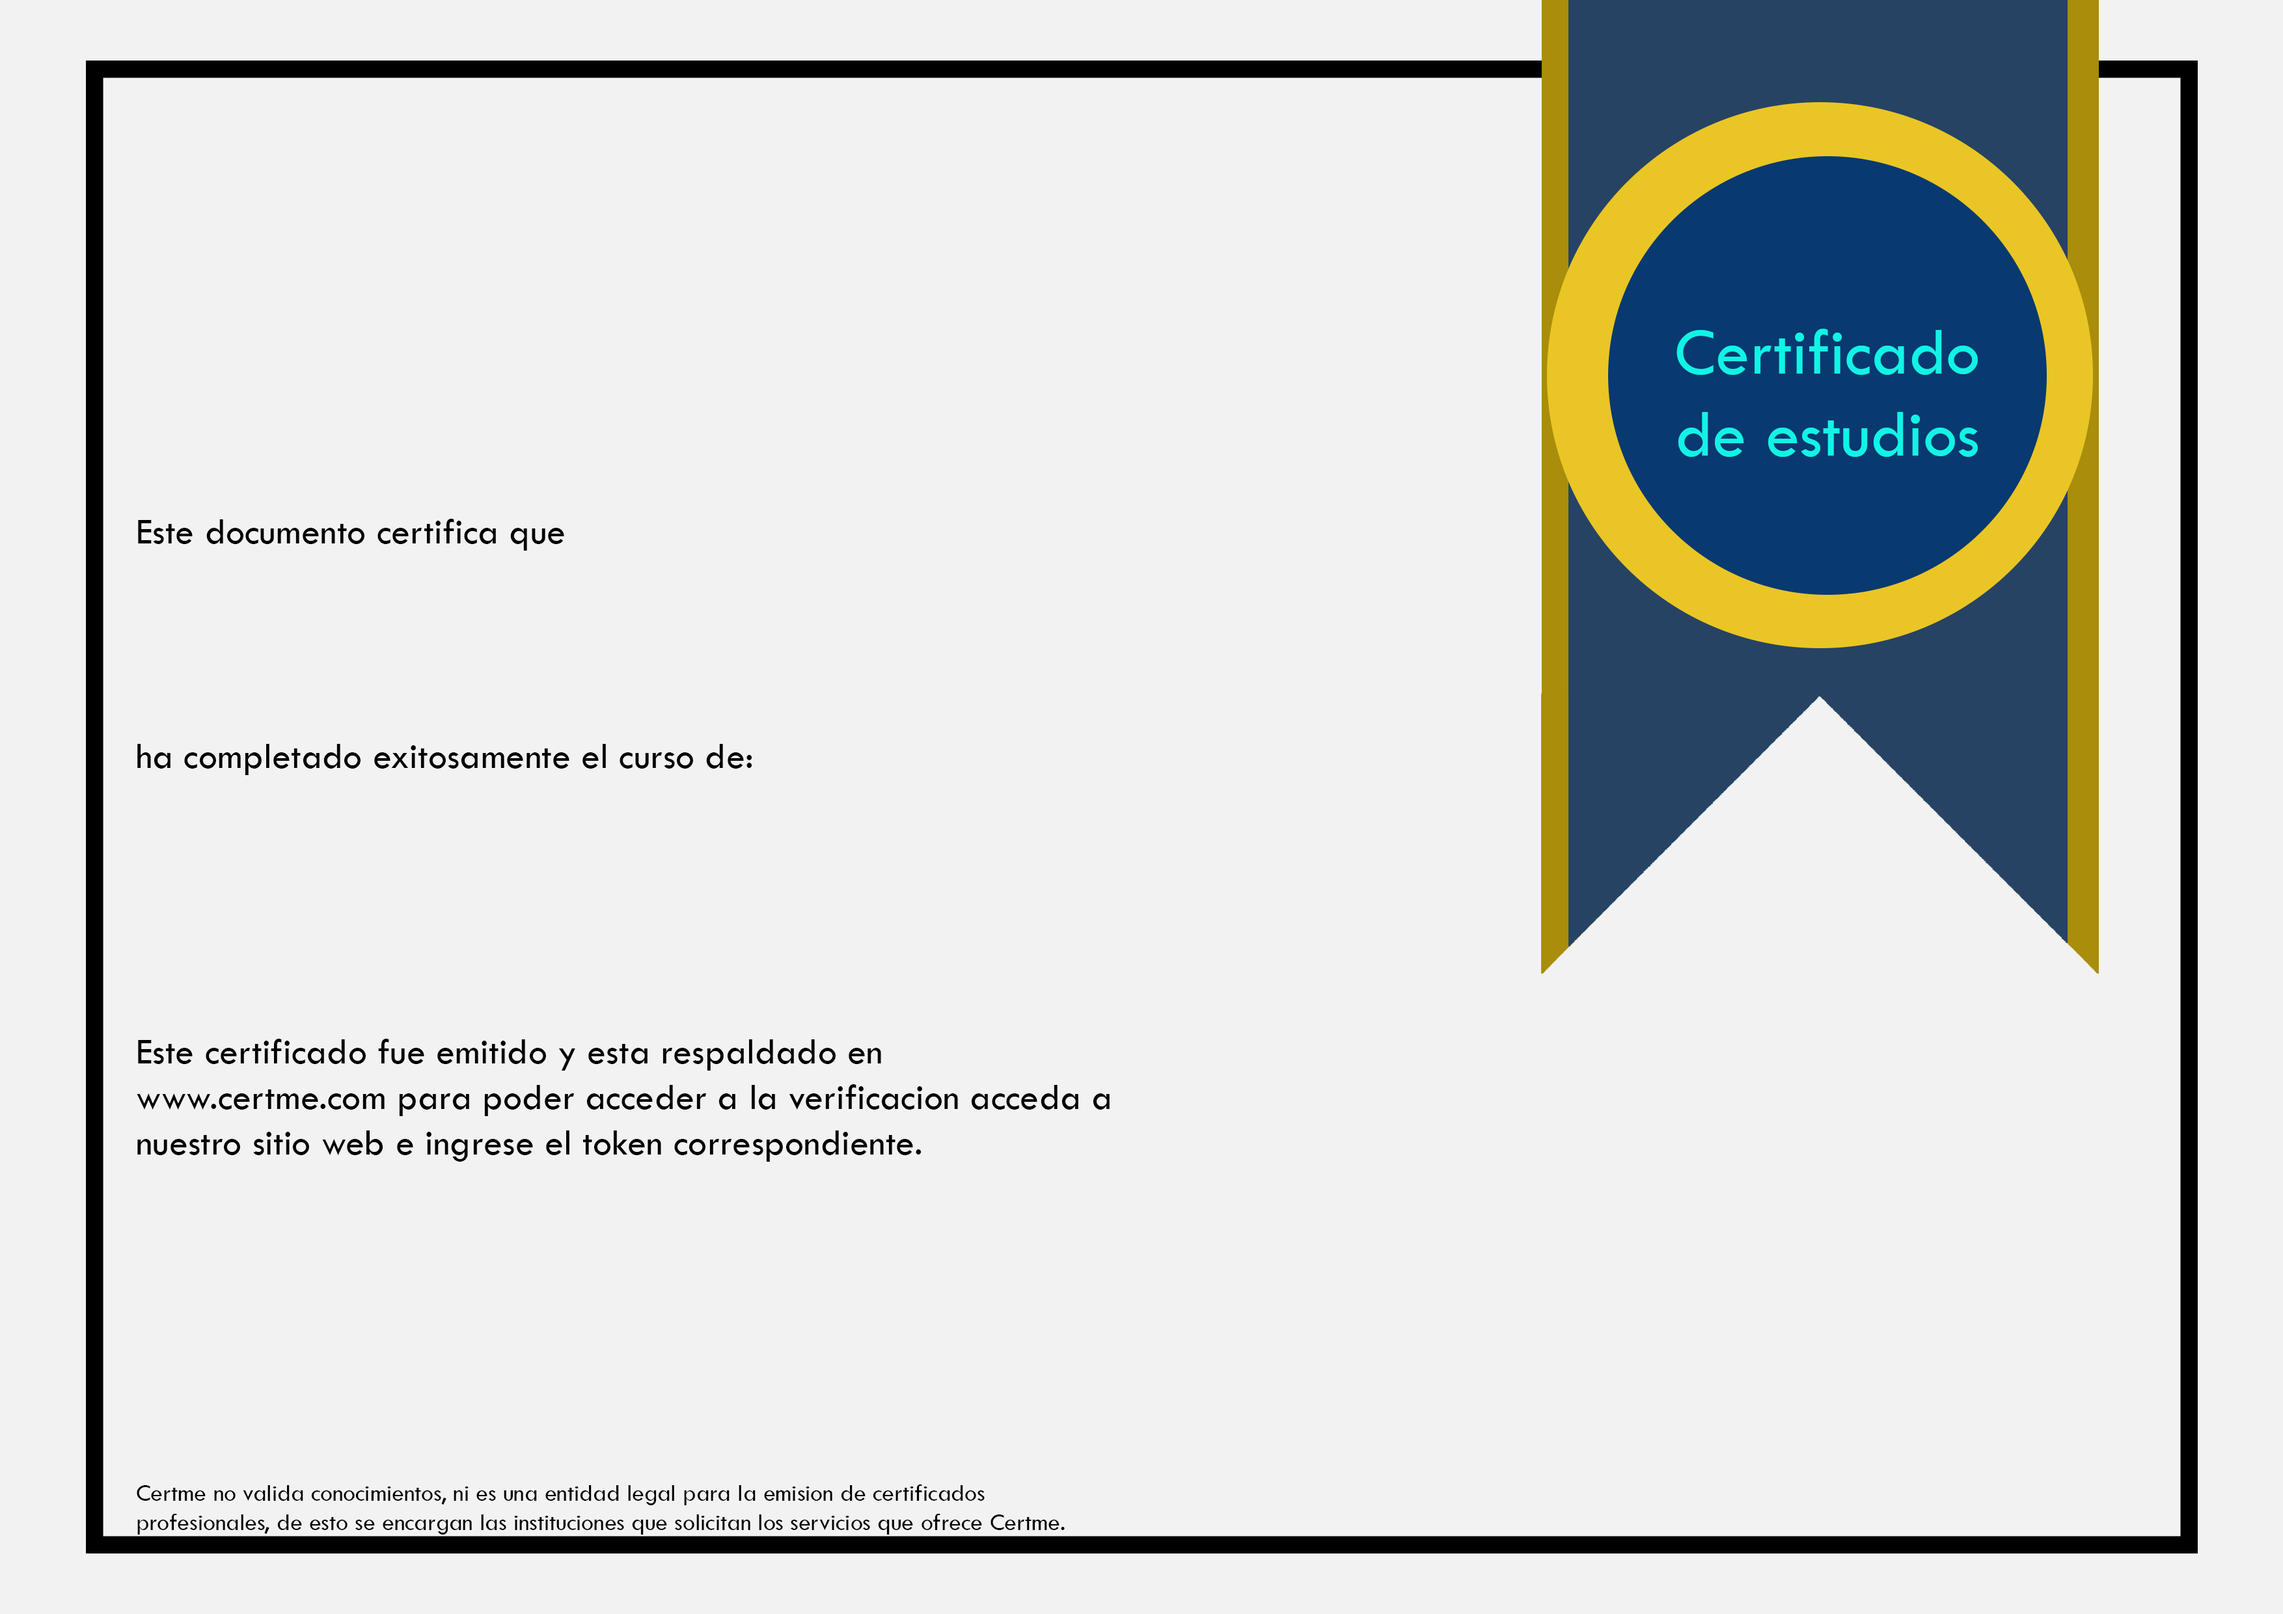
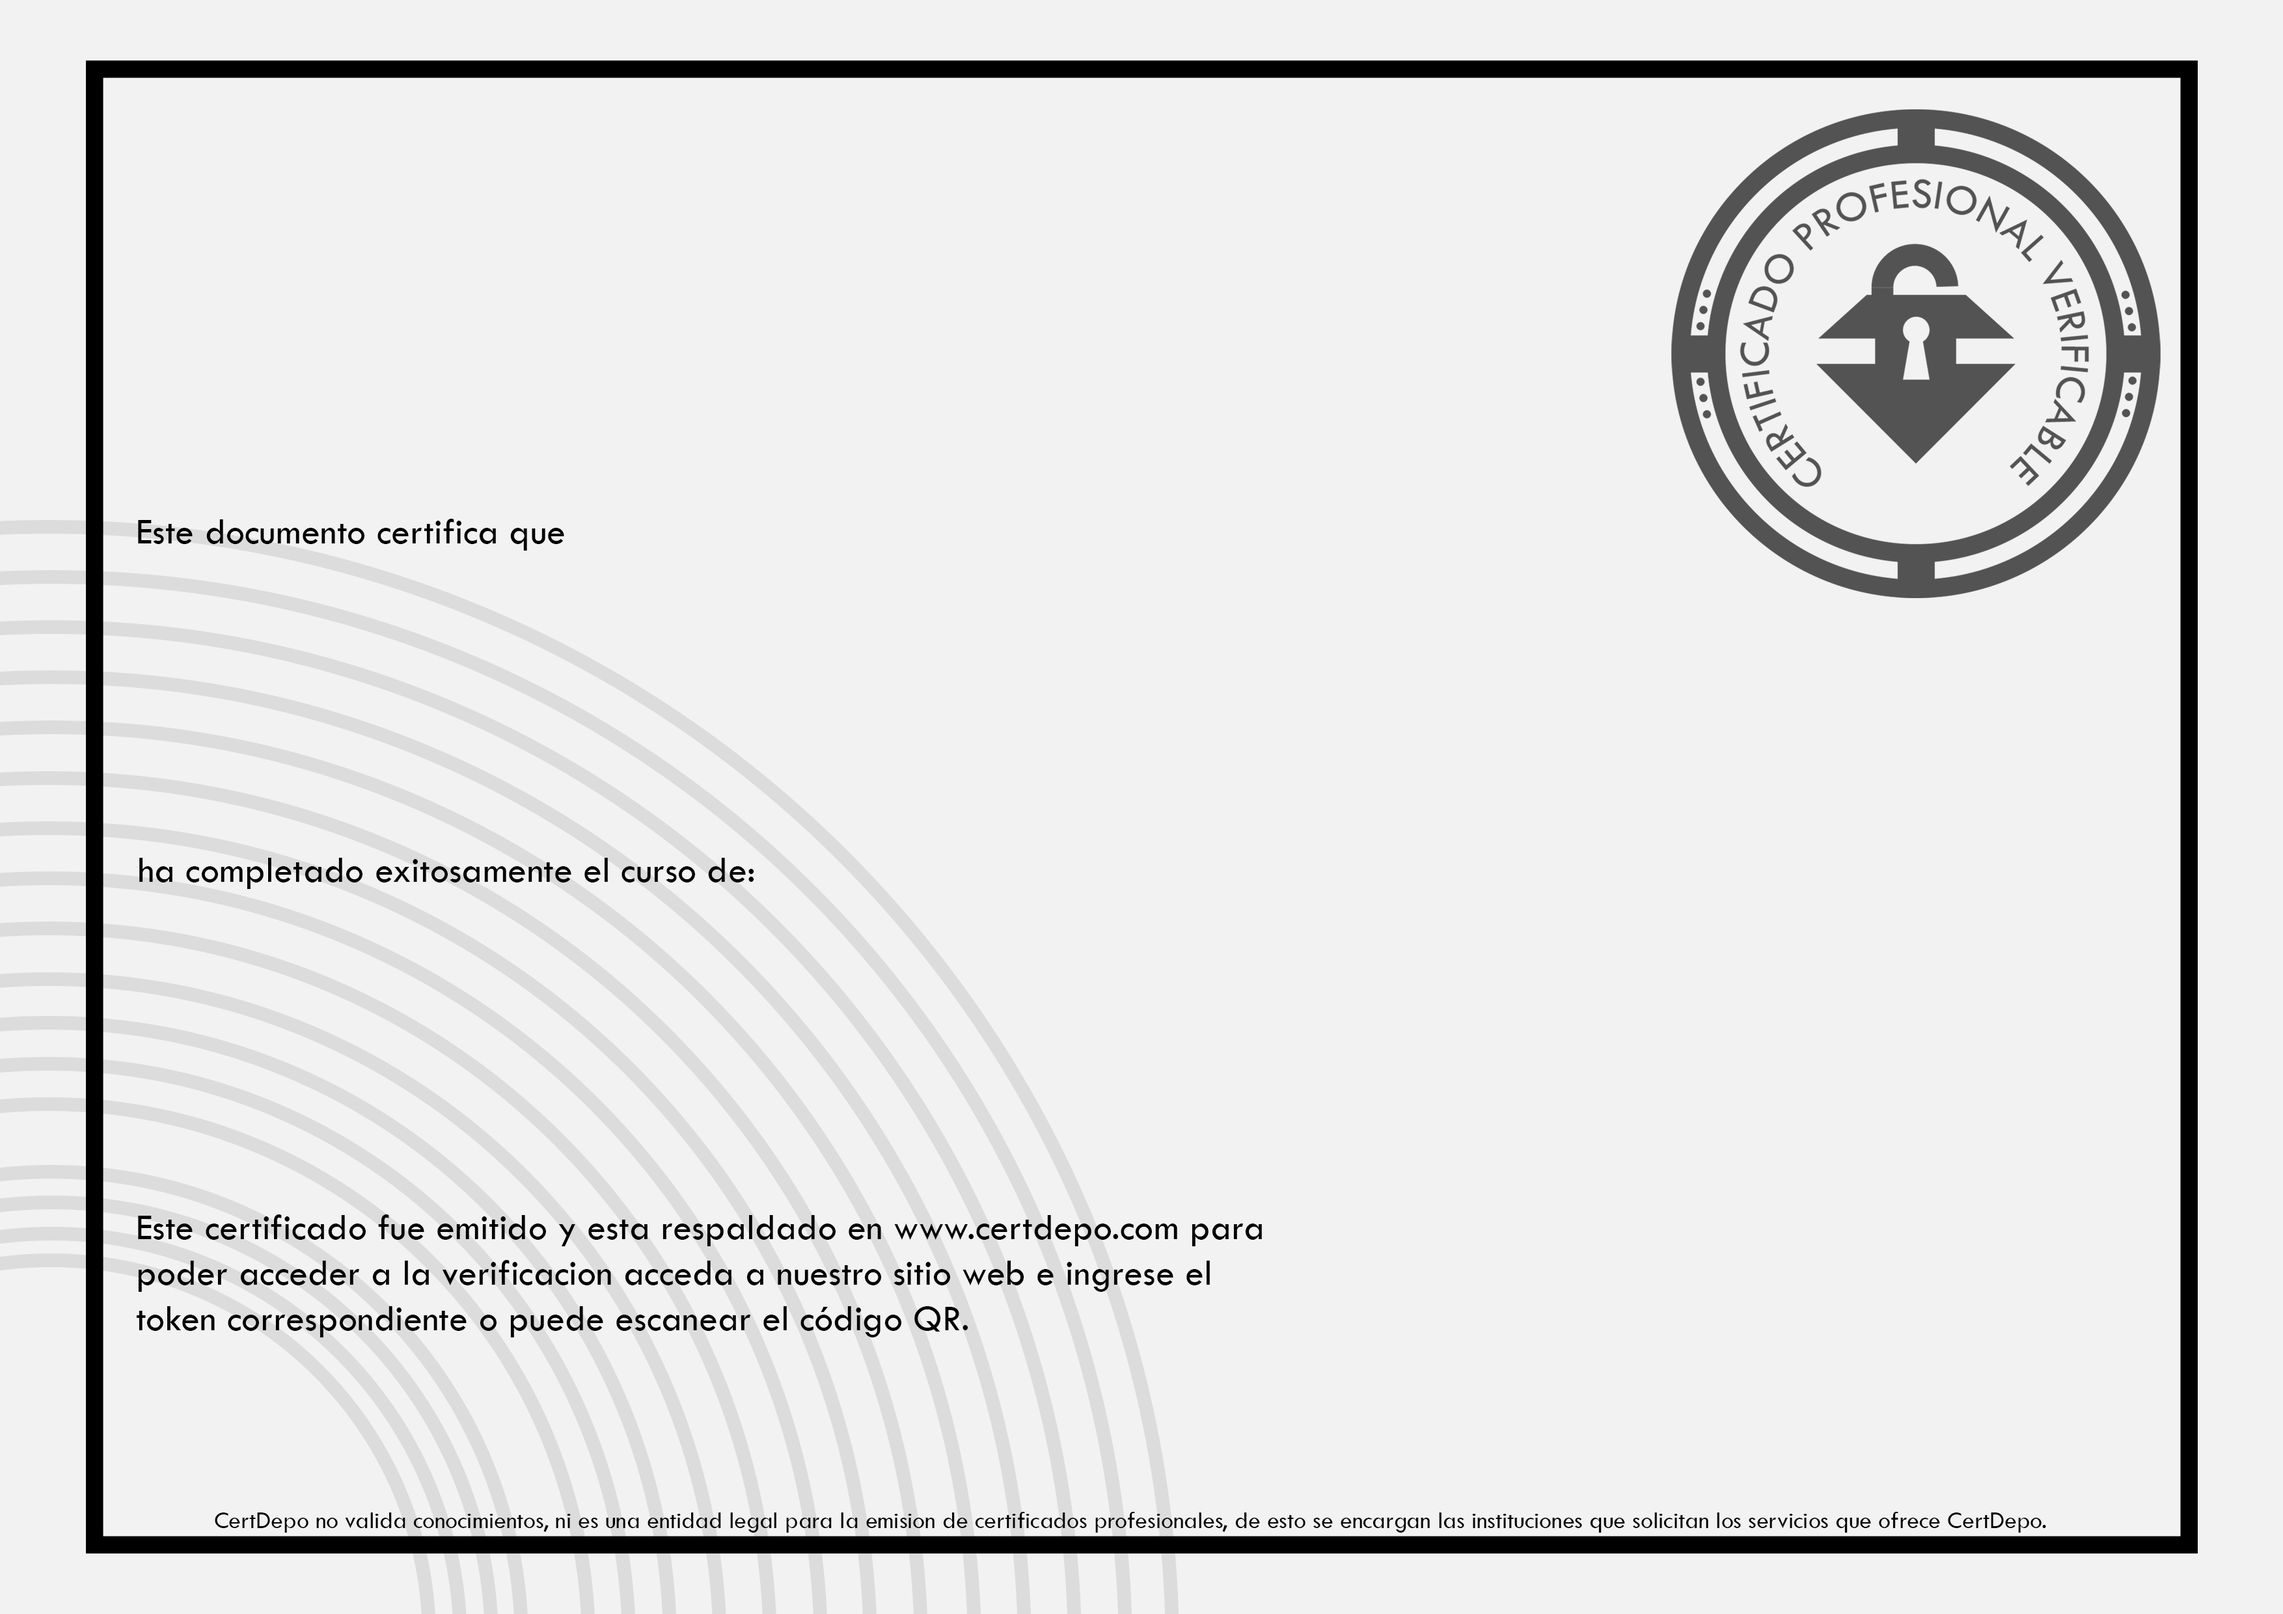
Certificate design updated and general info

diff --git a/includes/scripts/generateCert.py b/includes/scripts/generateCert.py
@@ -6,6 +6,7 @@ import sys
 import os
 import qrcode
 
+
 def getparam(line):
     imagename = line[1]
     username = " ".join(line[3:line.index('-t')])
@@ -16,36 +17,96 @@ def getparam(line):
     return imagename, username, title, token, issuerName, idcert
 
 
+def wordsbyspaces(phrase):
+    words = phrase.split(" ")
+    count = [len(word) for word in words]
+
+    return count
+
+
+def getindex(lenlist, minval):
+    value = 0
+    for i in range(len(lenlist)):
+        if i + 1 < len(lenlist):
+            value += lenlist[i]
+            if value  + lenlist[i+1] > minval:
+                return i
+        else:
+            return i
+
+
 line = sys.argv[1:]
 
 imagename, username, title, token, issuerName, idcert = getparam(line)
-path = os.path.join( os.getcwd(), "includes/scripts/certificates/")
+path = os.path.join(os.getcwd(), "includes/scripts/certificates/")
 
 if imagename == '001.png':
     image = Image.open(path+'001.png')
     back_im = image.copy()
     qr = qrcode.QRCode(version=1,
-                   error_correction=qrcode.constants.ERROR_CORRECT_L,
-                   box_size=10,
-                   border=4,)
+                       error_correction=qrcode.constants.ERROR_CORRECT_L,
+                       box_size=10,
+                       border=4,)
     qr.add_data('www.certdepo.com/show-certificate.php?id='+idcert)
     qr.make(fit=True)
     qrimg = qr.make_image(fill_color="black", back_color="#f2f2f2")
 
-    back_im.paste(qrimg,(0,0))
+    back_im.paste(qrimg, (0, 0))
     draw = ImageDraw.Draw(back_im)
 
     fontpath = '/var/www/certdepo/includes/scripts/tw-cen-mt-6.ttf'
-    font = ImageFont.truetype(fontpath, size=200)
-    draw.text((200, 500), issuerName, fill='rgb(0,0,0)', font=font)
+
+    if len(issuerName) <= 25:
+        font = ImageFont.truetype(fontpath, size=200)
+        draw.text((200, 500), issuerName, fill='rgb(0,0,0)', font=font)
+    else:
+        font = ImageFont.truetype(fontpath, size=200)
+        count = wordsbyspaces(issuerName)
+        namesplit = issuerName.split(" ")
+        mindex = getindex(count, 28)
+
+        n1 = " ".join(namesplit[:mindex])
+        n2 = " ".join(namesplit[mindex:])
+        draw.text((200, 375), n1, fill='rgb(0,0,0)', font=font)
+        draw.text((200, 575), n2, fill='rgb(0,0,0)', font=font)
+
     color = 'rgb(7,75,114)'
-    draw.text((200, 900), username, fill=color, font=font)
-    font = ImageFont.truetype(fontpath, size=110)
-    draw.text((200, 1350), title, fill=color, font=font)
-    draw.text((200, 2000), token, fill=color, font=font)
+
+    if len(username) <= 32:
+        draw.text((200, 950), username, fill=color, font=font)
+        font = ImageFont.truetype(fontpath, size=200)
+    else:
+        font = ImageFont.truetype(fontpath, size=150)
+        count = wordsbyspaces(username)
+        namesplit = username.split(" ")
+        mindex = getindex(count,32)
+
+        n1 = " ".join(namesplit[:mindex])
+        n2 = " ".join(namesplit[mindex:])
+        draw.text((200, 900), n1, fill=color, font=font)
+        draw.text((200, 1080), n2, fill=color, font=font)
+    
+    if len(title) <= 37:
+        draw.text((200, 1500), title, fill=color, font=font)
+        font = ImageFont.truetype(fontpath, size=200)
+    else:
+        font = ImageFont.truetype(fontpath, size=150)
+        count = wordsbyspaces(title)
+        print(count)
+        namesplit = title.split(" ")
+        mindex = getindex(count,55)
+
+        n1 = " ".join(namesplit[:mindex])
+        n2 = " ".join(namesplit[mindex:])
+        draw.text((200, 1450), n1, fill=color, font=font)
+        draw.text((200, 1600), n2, fill=color, font=font)
+
+    #draw.text((200, 1500), title, fill=color, font=font)
+    font = ImageFont.truetype(fontpath, size=155)
+    draw.text((210, 2125), token, fill=color, font=font)
 
     filename = 'Cert' + str(idcert) + '.png'
 
     back_im = back_im.convert('RGB')
     #raise Exception(os.getcwd())
-    back_im.save("includes/scripts/certificates/temp/"+filename,'PNG')
+    back_im.save("includes/scripts/certificates/temp/"+filename, 'PNG')

diff --git a/show-certificate.php b/show-certificate.php
@@ -30,7 +30,7 @@ require 'header.php';
                         mysqli_stmt_execute($stmt);
                         $result = mysqli_stmt_get_result($stmt);
                         if ($rowissuer = mysqli_fetch_assoc($result)) {
-
+                            // generateCert.py -f 001.png -n Kevin Anthony Zhang Plaza -t Test certificate -k 000002222222 -i Google Inc. -c 2
                             $result = exec('/usr/bin/python3 /var/www/certdepo/includes/scripts/generateCert.py -f 001.png -n ' . $row['userName'] . ' -t ' . $row['titleCerts'] . ' -k ' . $row['tokenCerts'] . ' -i ' . $rowissuer['issuerName'] . ' -c ' . $row['idCerts'] . ' 2>&1');
             ?>
                             <div class="certinfo">
